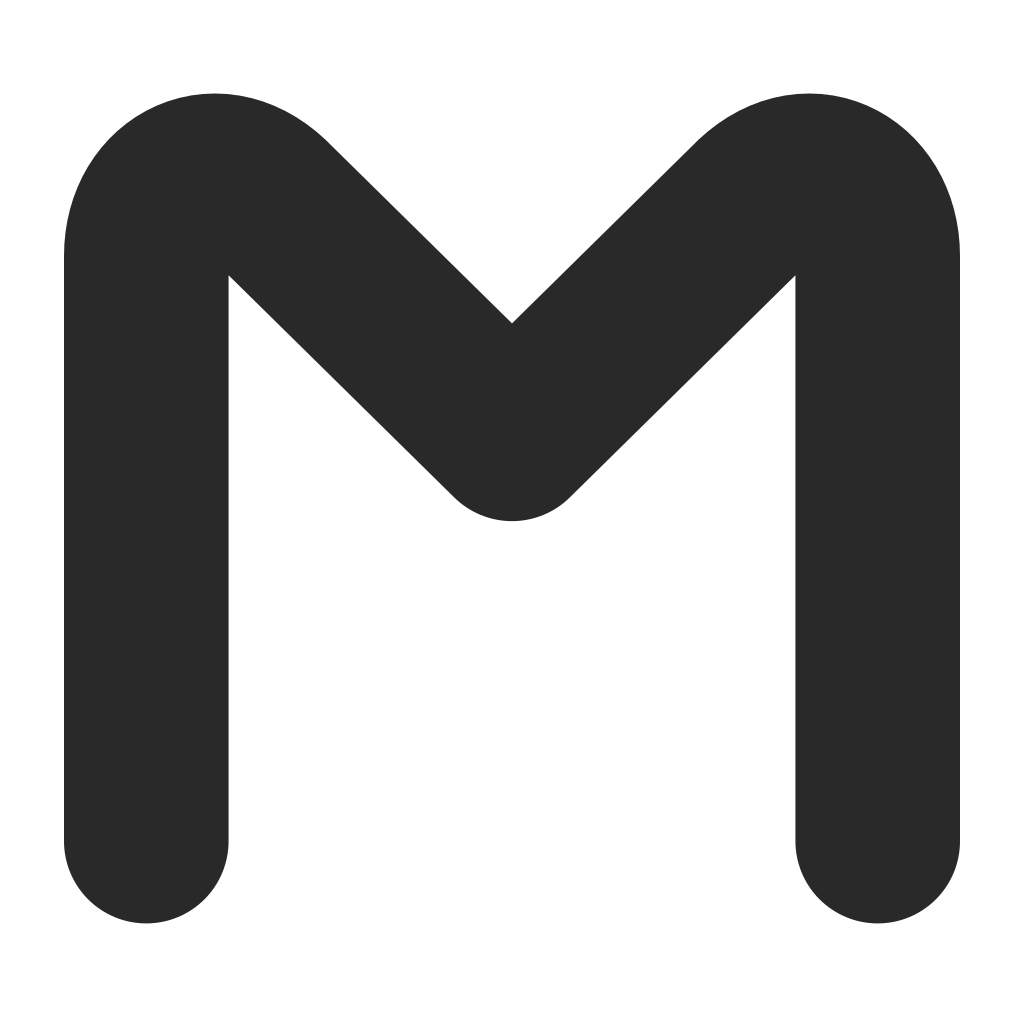
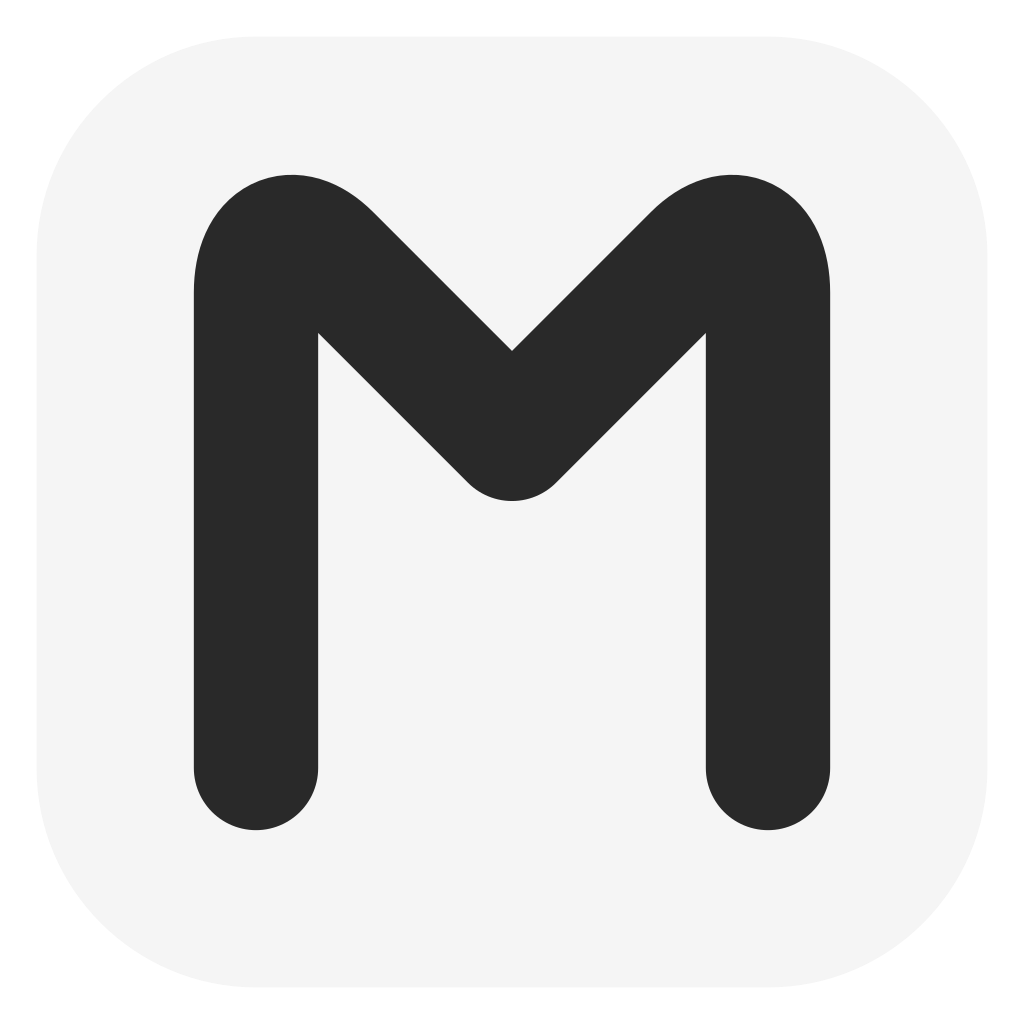
Document Mac setup and verify ad-hoc signed Apple Silicon packages

diff --git a/docs/MACOS.md b/docs/MACOS.md
@@ -1,0 +1,79 @@
+# Muse Desk для Apple Silicon
+
+Mac-версия запускает модель **на самом Mac**. Windows-компьютер, Tailscale и сетевой шлюз для неё не нужны. Интерфейс повторяет основную композицию Muse Desk: проекты слева, переписка в светлой области, результаты и источники справа. Кнопки окна и верхнее системное меню принадлежат macOS.
+
+## Установить
+
+1. В [Releases](https://github.com/magamadovnurid/MuseDesk/releases) скачайте `MuseDesk-1.23.0-macOS-AppleSilicon.dmg` либо ZIP с таким же названием. Контрольные суммы находятся в `SHA256SUMS.txt`.
+2. Откройте DMG и перетащите **Muse Desk** в **Applications**. ZIP содержит то же приложение `.app`.
+3. Запустите приложение из Applications. На первом запуске откроется мастер подготовки модели в стиле Muse Desk.
+4. Мастер определит процессор, macOS, объединённую память и свободное место. Проверьте показанный профиль и нажмите **«Установить Glimmer»**.
+5. Дождитесь скачивания движка, весов и проверки SHA-256. После установки приложение загрузит модель и подтвердит статус **«Готово»**. Только тогда станет доступно поле промпта.
+
+Это предварительная сборка с **ad-hoc подписью**, без сертификата Developer ID и нотариализации Apple. Она не обеспечивает обычного доверенного первого запуска у получателя: Gatekeeper может потребовать явного разрешения пользователя. Для доверенного источника Apple описывает действие «Всё равно открыть» в настройках «Конфиденциальность и безопасность». Глобальное отключение Gatekeeper не требуется. См. [инструкцию Apple](https://support.apple.com/en-ca/guide/mac-help/mh40616/mac). Некоторые управляемые организацией Mac не разрешают такие исключения.
+
+## Какие параметры сканируются
+
+| Параметр Mac | Как используется |
+|---|---|
+| Архитектура `arm64` | Поддерживаются Apple Silicon; Intel и процесс запуска под Rosetta не подходят |
+| macOS 14 или новее | Минимальная версия этой сборки |
+| Объединённая память | Берётся полный объём RAM через API ОС; это общая память CPU/GPU, а не отдельная NVIDIA VRAM |
+| Свободное место | Не менее 40 ГиБ для автоматической установки; частично скачанные компоненты учитываются при повторной попытке |
+| 32 / 36 / 48 ГБ памяти | Glimmer Heretic Q4_K_M + кодировщик изображений Q8_0 |
+| 64 ГБ и больше | Glimmer Heretic Q4_K_M + кодировщик изображений F16 |
+| 24 ГБ и меньше | Большая модель не скачивается автоматически; можно установить только движок |
+
+Для новой установки используется контекст 8192. «Больше 24 ГБ» само по себе не является критерием достаточности: память нужна macOS, другим программам, модели и KV-кэшу. Пороги — консервативная политика допуска, а не измерение быстродействия и не гарантия стабильности. Установщик не меняет системные лимиты Metal, swap, драйверы или настройки безопасности.
+
+Проверяемый каталог — [macos/catalog.json](../macos/catalog.json). Источник весов и ревизия совпадают с Windows-каталогом; движок и конфигурация платформы отдельные. Это GGUF-веса стороннего издателя, а не новая специально обученная Muse Desk модель. Архив Ollama для Darwin закреплён на версии 0.33.3 и проверяется по SHA-256.
+
+## Скачивание и хранение
+
+Первичная загрузка требует доступа к GitHub и Hugging Face. Текстовые веса — 16.94 ГБ; кодировщик изображений — 2.05 либо 3.85 ГБ; движок — около 159 МБ. Интерфейс показывает фактически полученные байты. Отмена останавливает принадлежащий установщику процесс скачивания, сохраняя `.part` для повторного запуска.
+
+Приложение находится в `/Applications/Muse Desk.app`. Данные текущего пользователя находятся в `~/Library/Application Support/Muse Desk/`:
+
+- `history.json` и `.bak` — проекты, чаты и настройки;
+- `local/runtime/` — приватный движок;
+- `local/models/` — веса и манифесты;
+- `local/installation.log` и `local/engine.log` — диагностика;
+- `local/downloads/` — кэш движка.
+
+Ollama слушает только `127.0.0.1:11436`, облачные функции отключены. Muse Desk не подключается автоматически к чужому процессу на этом порту. Переключение сначала выгружает резидентные модели приватного движка, ждёт пустого списка и только затем загружает выбранную. Другие приложения на Mac могут независимо пользоваться GPU: это не общесистемная блокировка.
+
+## Функции и границы совместимости
+
+| Функция | Первая macOS-версия |
+|---|---|
+| Проекты из папок, вложенные чаты, переименование, перенос, удаление | Есть; удаление проекта не удаляет файлы папки |
+| Потоковый ответ, рассуждение, время сообщений, скорость, копирование и экспорт | Есть |
+| Текстовые вложения и изображения | Есть; до четырёх файлов, обработка изображений локальная |
+| Изменяемый контекст и выбор установленной модели | Есть; смена вызывает проверку и перезагрузку |
+| Инструменты | Список файлов, чтение/запись UTF-8, shell-команды; каждое действие требует отдельного подтверждения |
+| Журнал действий и результаты | Есть, сохраняются с диалогом |
+| Озвучивание | Системный синтез речи, если доступен голос macOS |
+| Диктовка, захват экрана, все Office/PDF-конвертеры Windows, расширенные режимы разрешений | Полная функциональная эквивалентность пока не заявлена |
+
+Чтение/запись файлов ограничены выбранным проектом и проверяют выход по `..` и символическим ссылкам. **Shell-команда имеет права вашего пользователя и может выйти за пределы проекта**: перед исполнением показывается точная команда и рабочая папка. Инструменты по умолчанию выключены. Изоляция renderer — не macOS App Sandbox всего приложения.
+
+## Сборка и проверка
+
+Сборка выполняется на arm64 runner `macos-15` с Node.js 24 и pnpm 11.19.0:
+
+```sh
+cd macos
+pnpm install --frozen-lockfile --ignore-scripts
+node node_modules/electron/install.js
+pnpm test
+pnpm test:ui
+pnpm build
+```
+
+`scripts/test-mac-runtime.cjs` отдельно устанавливает настоящий закреплённый движок и проверяет его версию и пустой список моделей. Он **не скачивает веса и не запускает inference**. CI проверяет ARM64-архитектуру, целостность ad-hoc подписи и запуск упакованного приложения в режиме синтетического UI-теста.
+
+Полный прогон Glimmer на физических Mac с 32/36/48/64+ ГБ, работа Metal под нагрузкой и первый запуск скачанного приложения через Gatekeeper требуют отдельной приёмки. Нельзя считать их пройденными по успешной сборке DMG.
+
+## Удаление
+
+Закройте Muse Desk и перенесите приложение из Applications в корзину. История и веса сохраняются отдельно. Удаляйте каталог Application Support только если намеренно хотите удалить диалоги, настройки и загруженные модели. Рабочие папки проектов находятся вне этого каталога.

diff --git a/docs/RELEASE-NOTES.md b/docs/RELEASE-NOTES.md
@@ -1,23 +1,30 @@
-# Muse Desk 1.22.0 — Windows installer preview
+# Muse Desk 1.23.0 — Windows + Apple Silicon
 
-Первый отдельный графический установщик Muse Desk: проверка оборудования, подбор профиля Glimmer, загрузка закреплённых компонентов с Hugging Face и GitHub, SHA-256, возобновление загрузки и установка для текущего пользователя.
+В одном выпуске — приложение для Windows и новая локальная версия для macOS на Apple Silicon. Mac запускает Glimmer самостоятельно, без подключения к Windows.
 
-## Скачать и установить
+## Выберите файл
 
-Скачайте **MuseDesk-Setup.exe** из вложений выпуска и запустите. Git и Node.js не нужны. Контрольная сумма опубликована в **SHA256.txt**.
+| Компьютер | Файл |
+|---|---|
+| Windows x64, новая установка | **MuseDesk-Windows-x64-Setup.exe** |
+| Windows, только приложение без движка/модели | MuseDesk-Windows-x64-App.zip |
+| Mac с Apple Silicon | **MuseDesk-1.23.0-macOS-AppleSilicon.dmg** |
+| Mac, архив того же приложения | MuseDesk-1.23.0-macOS-AppleSilicon.zip |
 
-Для автоматической установки Glimmer нужны Windows x64 с .NET 4.8, NVIDIA от 24 ГБ VRAM с Compute Capability 7.5+, 32 ГБ RAM и 40 ГБ свободного места. Загрузка составляет около 20–22 ГБ. Для неподходящей GPU доступна установка только приложения. Подробности: [руководство](https://github.com/magamadovnurid/MuseDesk/blob/main/docs/INSTALLATION.md).
+Контрольные суммы всех пакетов — **SHA256SUMS.txt**. Исходники доступны стандартными архивами GitHub. Веса модели не включены в пакеты: они скачиваются мастером настройки.
 
-## Изменения приложения
+## Mac: настройка по параметрам вашего компьютера
 
-- Проекты из папок, вложенные чаты, перенос чатов и единые подтверждения удаления.
-- Обновлённый светлый интерфейс, собственные значки, меню и кнопки управления окном.
-- Последовательная загрузка моделей, ожидание подтверждённой готовности и блокировка ввода до неё.
-- Время отправки и завершения ответа, адаптивное поле ввода, тонкая прокрутка и журнал действий.
-- Новые установки начинают с контекста 8192 и выключенных инструментов.
+Нужны macOS 14+ и Apple Silicon. Мастер считывает архитектуру, объединённую память и свободное место непосредственно на Mac. Для Glimmer: от 32 ГБ памяти и 40 ГиБ свободного места. На 32–48 ГБ выбирается Q4_K_M + Q8 кодировщик; от 64 ГБ — Q4_K_M + F16. На 24 ГБ большая модель автоматически не скачивается. Загрузка — около 19–21 ГБ.
 
-## Статус проверки
+В Mac-клиент перенесены проекты, вложенные чаты, потоковые ответы, рассуждение, даты, вложения, экспорт, подтверждаемые инструменты и последовательная загрузка моделей. Некоторые расширенные Windows-возможности ещё не перенесены: [матрица функций и установка Mac](https://github.com/magamadovnurid/MuseDesk/blob/main/docs/MACOS.md).
 
-Пройдены изолированные проверки приложения и установки без модели, проверки профилей, хешей и защиты путей архива. Настоящий архив Ollama скачан и проверен; прерывание и возобновление загрузки модели проверены отдельно.
+## Windows
 
-**Это предварительный выпуск.** Полная загрузка весов и генерация на чистом компьютере получателя ещё не проверены. Проверка объёма памяти не гарантирует стабильность GPU. EXE пока не подписан Authenticode; Windows может показать предупреждение SmartScreen. Автообновление и отдельный деинсталлятор ещё не реализованы.
+Сохранены WinForms-интерфейс, проекты и чаты, управление готовностью модели и отдельный графический установщик. Для автоматической установки Glimmer нужны NVIDIA от 24 ГБ VRAM, RAM от 32 ГБ, Compute Capability 7.5+ и 40 ГиБ свободного места. [Инструкция Windows](https://github.com/magamadovnurid/MuseDesk/blob/main/docs/INSTALLATION.md).
+
+## Предварительный статус
+
+Публикация выпуска требует успешных проверок обеих платформ, сборки пакетов, проверки ARM64 и запуска Mac-приложения с синтетическими данными. Настоящий Mac-движок проверяется без загрузки модели.
+
+Полная генерация Glimmer на физических Mac с разным объёмом памяти ещё не прошла аппаратную приёмку. Mac-приложение имеет ad-hoc подпись, **без Developer ID и нотариализации Apple**; Gatekeeper может потребовать ручное разрешение запуска. Windows EXE также пока без сертификата Authenticode. Это preview, а не обещание полной аппаратной совместимости.

diff --git a/ARCHITECTURE.md b/ARCHITECTURE.md
@@ -50,3 +50,9 @@
 ## Графический установщик (1.22)
 
 installer/Setup.cs — оболочка и IPC через JSON-строки stdout; installer/Install.ps1 — проверка оборудования, установка и контроль скачивания; installer/catalog.json — закреплённые источники. Оболочка содержит приложение как ZIP-ресурс. Приватное хранилище весов регистрируется без запуска inference. Подробности: docs/INSTALLER-DESIGN.md.
+
+## Apple Silicon (1.23)
+
+`macos/main.cjs` владеет историей, IPC и задачами; `engine.cjs` — единственным приватным процессом Ollama и проверкой резидентности; `setup.cjs` — сканированием Mac, загрузками и регистрацией; `tools.cjs` — подтверждаемыми действиями в проекте. Renderer работает без Node.js, в sandbox и с CSP. Он не получает произвольного доступа к файловой системе. Apple Silicon использует объединённую память; отдельный каталог фиксирует Darwin-движок и пороги 32/64 ГБ.
+
+`release.yml` сначала независимо проверяет и собирает Windows и macOS, затем публикует оба набора и контрольные суммы в одном выпуске. Публикация не меняет видимость репозитория. Старый сетевой прототип в `experimental/mac-client` остаётся архивом, а не основой подключения новой версии.

diff --git a/THIRD_PARTY_NOTICES.md b/THIRD_PARTY_NOTICES.md
@@ -10,6 +10,8 @@ The historical Apps SDK UI MIT license file is retained for attribution of earli
 
 ## Runtime and build dependencies
 
+The macOS application embeds Electron 44.2.0 (MIT) and its Chromium/Node.js components with their bundled license notices. It is packaged with electron-builder 26.15.3 (MIT). Exact build dependencies and integrity values are pinned in `macos/pnpm-lock.yaml`. Apple system fonts and voices are supplied by macOS, not redistributed. The Mac icon and interface vectors are project drawings. The Darwin Ollama archive has its own pinned SHA-256 in `macos/catalog.json`; model publisher licensing remains separate from the application.
+
 - Ollama 0.33.3: https://github.com/ollama/ollama/releases/tag/v0.33.3. The separate official archive retains its included license and dependency notices.
 - Glimmer GGUF in the new installer: https://huggingface.co/mradermacher/Muse-Glimmer-30B-heretic-GGUF, Apache-2.0 as declared by the publisher; based on darkc0de/Muse-Glimmer-30B-heretic. The installer catalog records the immutable revision and per-file hashes. Model capability, license, origin and quality are distinct from those of the Muse Desk UI.
 - The older developer setup uses https://ollama.com/acc100/muse-glimmer-heretic and `runtime.lock.json`; its weights are not byte-identical to the new HF installer catalog.

diff --git a/experimental/README.md b/experimental/README.md
@@ -1,7 +1,6 @@
 # Отложенные прототипы
 
-Эти исходники сохранены, чтобы работа не потерялась. Они не входят в сборку
-Windows 1.14 и не являются готовой/проверенной версией для macOS.
+Эти исходники сохранены, чтобы работа не потерялась. Они не входят в актуальные сборки. Новая локальная версия для Apple Silicon находится в [`macos/`](../macos/), а её инструкция — в [`docs/MACOS.md`](../docs/MACOS.md).
 
 - `mac-client/`: отдельный ранний Electron-клиент 1.3; DMG не собран,
   зависимости и упаковщик ещё не зафиксированы. Текущих функций Windows 1.14 здесь нет.
